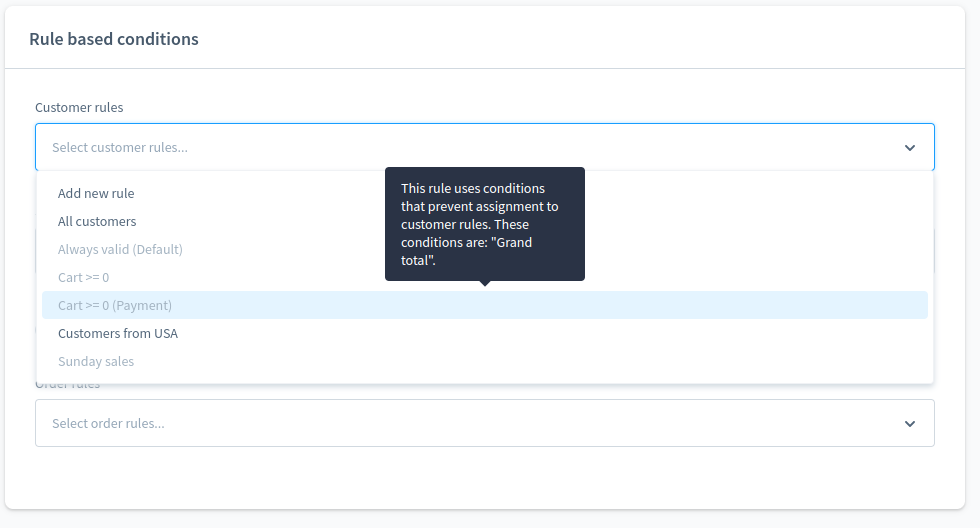
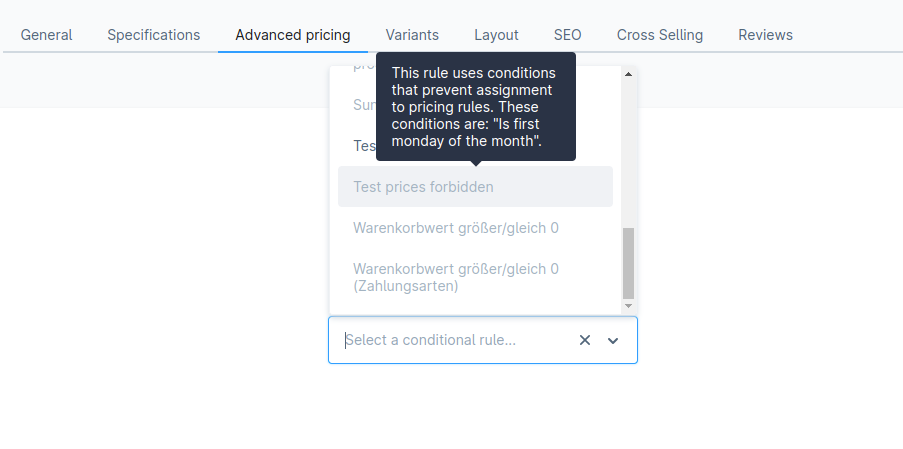
Change image and fix merge bug

diff --git a/guides/plugins/plugins/framework/rule/add-custom-rules.md b/guides/plugins/plugins/framework/rule/add-custom-rules.md
@@ -121,7 +121,7 @@ $context->getRuleIds();
 
 Now we want to implement our new rule in the Administration so that we can manage it. To achieve this, we have to call the `addCondition` method of the [RuleConditionService](https://github.com/shopware/platform/blob/v6.3.4.1/src/Administration/Resources/app/administration/src/app/service/rule-condition.service.js), by decorating this service. The decoration of services in the Administration will be covered in our [Adding services](../../administration/add-custom-service.md#Decorating%20a%20service) guide.
 
-Create a new directory called `<plugin root>/src/Resources/app/administration/src/decorator`. In this directory we create a new file called `rule-condition-service-decoration.js`.
+Create a new directory called `<plugin root>/src/Resources/app/administration/src/decorator/app`. In this directory we create a new file called `rule-condition-service-decoration.js`.
 
 {% code title="<plugin root>src/Resources/app/administration/src/decorator/app/rule-condition-service-decoration.js" %}
 
@@ -244,7 +244,7 @@ Rules in the Shopware Administration are aware of where users assign them. That 
 
 ![Select component with disabled rules](../../../../../.gitbook/assets/rule-restrictions-rule-builder.png)
 
-It is possible to define where rules can be assigned inside the Administration. Let us see about it.
+It is possible to define where rules can be assigned inside the Administration.
 
 ### Defining restrictions
 
@@ -252,7 +252,7 @@ You have previously added the condition inside `ruleConditionDataProviderService
 
 First, get the existing definition for the rule relation as below:
 
-{% code title="<plugin root>src/Resources/app/administration/src/app/decorator/condition-type-data-provider.decorator.js" %}
+{% code title="<plugin root>src/Resources/app/administration/src/decorator/app/rule-condition-service-decoration.js" %}
 
 ```javascript
 // Inside the addServiceProviderDecorator method
@@ -265,9 +265,17 @@ const restrictions = ruleConditionService.getAwarenessConfigurationByAssignmentN
 You can find all possible relations in `Shopware\Core\Content\Rule\RuleDefinition`;
 {% endhint %}
 
-Now, add your configuration by importing the `merge` function from `Shopware.Utils.object`. Then call the `addAwarenessConfiguration` method.
+Now, add your `awarenessConfiguration` and call the `addAwarenessConfiguration` method.
 
-{% code title="<plugin root>src/Resources/app/administration/src/app/decorator/condition-type-data-provider.decorator.js" %}
+```javascript
+type awarenessConfiguration = {
+notEquals?: Array<string>,
+equalsAny?: Array<string>,
+snippet?: string,
+}
+```
+
+{% code title="<plugin root>src/Resources/app/administration/src/decorator/app/rule-condition-service-decoration.js" %}
 
 ```javascript
 Shopware.Application.addServiceProviderDecorator('ruleConditionDataProviderService', (ruleConditionService) => {
@@ -276,12 +284,13 @@ Shopware.Application.addServiceProviderDecorator('ruleConditionDataProviderServi
     const restrictions = ruleConditionService.getAwarenessConfigurationByAssignmentName('productPrices');
 
     ruleConditionService
-        .addAwarenessConfiguration('productPrices', merge(restrictions, {
+        .addAwarenessConfiguration('productPrices', {
             notEquals: [
-                'first_monday',
+                'first_monday'
             ],
-            equalsAny: [], // ignore property if not needed
-        }));
+            equalsAny: [ ], // ignore if not needed
+            snippet: 'sw-restricted-rules.restrictedAssignment.productPrices',
+        });
 });
 ```
 
@@ -290,7 +299,7 @@ Shopware.Application.addServiceProviderDecorator('ruleConditionDataProviderServi
 What do `notEquals` and `equalsAny` actually mean?
 With these two properties, you can define the rules you want to assign to a specific relation, i.e., `productPrices` need to have at least one condition inside `equalsAny` or should not have any condition inside of `notEquals`.
 
-Finally, you just need a new snippet. With that said, you successfully defined restrictions for your custom condition. If you now try to assign a rule with your condition to advanced prices, you should see that it is not possible, and the rule is disabled.
+Finally, you just need a snippet, you can choose an existing one or create one yourself. With that said, you successfully defined restrictions for your custom condition. If you now try to assign a rule with your condition to advanced prices, you should see that it is not possible, and the rule is disabled.
 
 ### Restricting rule assignments
 
